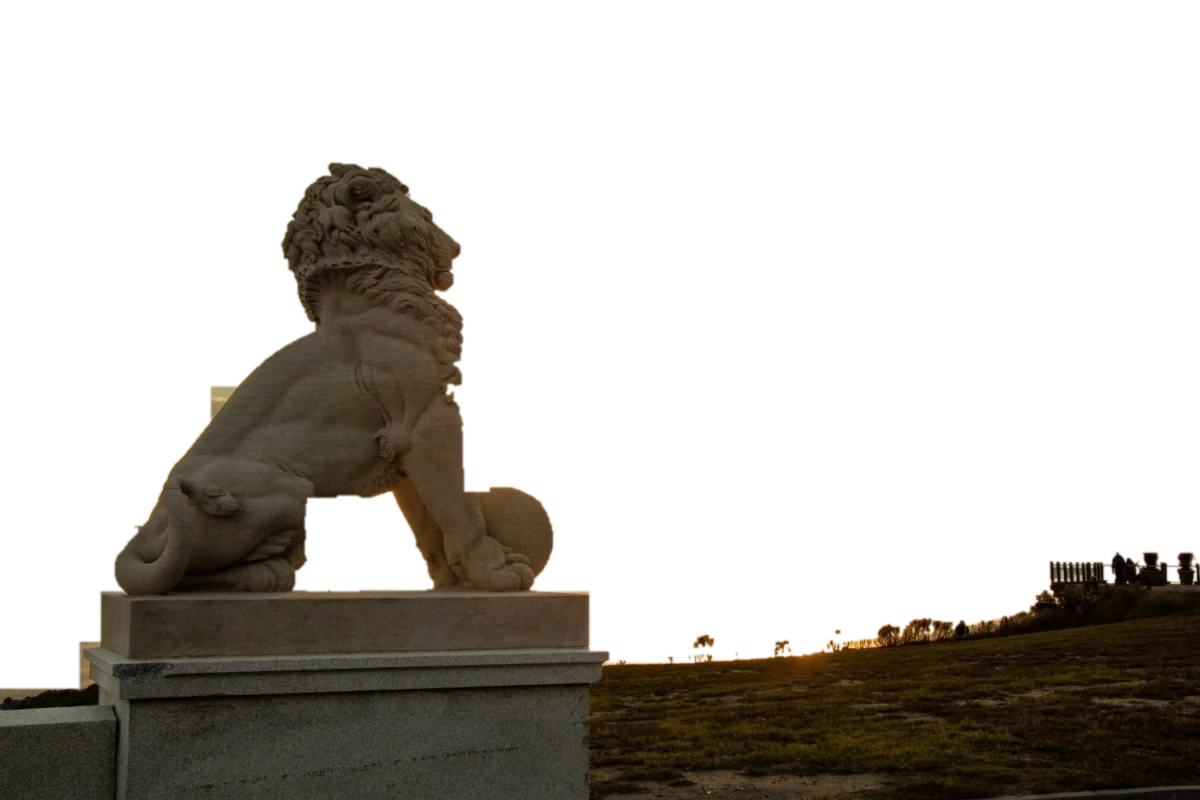
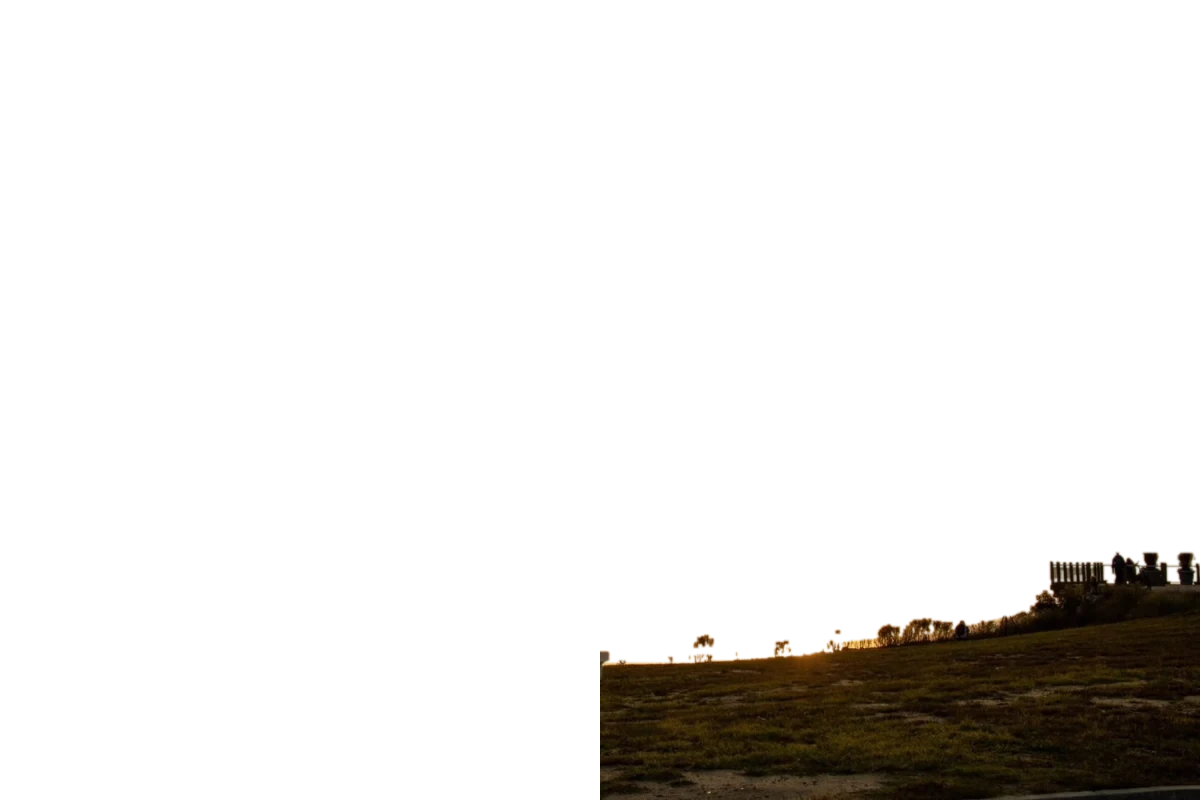
d24i: Lions Bridge lion smaller (80%) and left, clear of the setting sun

Changed region(s): [[0.0, 0.1875, 0.5242, 1.0]]

diff --git a/app.js b/app.js
@@ -648,9 +648,9 @@
       { const gy = window.AGObs && AGObs.sceneAt ? AGObs.sceneAt(sp, ev, t).gray : ev.obs ? ev.obs.gray : 0; const fl = o.mode !== "live" && gy > 0 ? `saturate(${(1 - 0.65 * gy).toFixed(2)}) brightness(${(1 + 0.08 * gy).toFixed(2)})` : ""; if (cv.style.filter !== fl) cv.style.filter = fl; }   // d15: illustrated fallback goes gray too (d22: muted, not drained, and brighter)
       const turnedIll = turned && o.mode === "behind";
       { const FG = { lionsbridge: { src: "img/lionsbridge-fg.webp" } }[sp.id], st = cv.parentElement; let el = st && st.querySelector(".pv-fg");   // d24h: Lions Bridge — the real foreground (lion statue, pedestal, wall, shore, railing) cut from Sean's photo; lit by the sun, silhouette only after dark
-        if (FG && !turned && !/mode=sunrise/.test(location.search) && st) { if (!el) { el = document.createElement("img"); el.className = "pv-fg"; el.alt = ""; st.appendChild(el); } if (el.getAttribute("src") !== FG.src) el.src = FG.src; el.hidden = false;
-          const e = o.elev != null ? o.elev : 0, lt = Math.max(0, Math.min(1, (e + 6) / 8)), f = `brightness(${(0.1 + 0.9 * lt).toFixed(2)}) saturate(${(0.35 + 0.65 * lt).toFixed(2)})`; if (el.style.filter !== f) el.style.filter = f; }
-        else if (el) el.hidden = true; }
+        if (FG && !turned && !/mode=sunrise/.test(location.search) && st) { if (!el) { el = document.createElement("img"); el.className = "pv-fg"; el.alt = ""; st.appendChild(el); } if (el.getAttribute("src") !== FG.src) el.src = FG.src; el.hidden = false; let el2 = st.querySelector(".pv-fg2"); if (!el2) { el2 = document.createElement("img"); el2.className = "pv-fg pv-fg2"; el2.alt = ""; el2.src = "img/lionsbridge-lion.webp"; st.appendChild(el2); } el2.hidden = false;   // d24i: lion on its own layer, smaller + left, clear of the setting sun
+          const e = o.elev != null ? o.elev : 0, lt = Math.max(0, Math.min(1, (e + 6) / 8)), f = `brightness(${(0.1 + 0.9 * lt).toFixed(2)}) saturate(${(0.35 + 0.65 * lt).toFixed(2)})`; if (el.style.filter !== f) { el.style.filter = f; el2.style.filter = f; } }
+        else if (el) { el.hidden = true; const e2 = st.querySelector(".pv-fg2"); if (e2) e2.hidden = true; } }
       if (o.mode === "live" && !/[?&]still=1/.test(location.search) && (window.PhotoStage && PhotoStage.last && PhotoStage.last.surf) && !dragging && !playing) startAnim();   // d14: keep the surf breaking at a steady 30 fps (was setTimeout 70 ms full re-render, ~12 fps, kept running behind the map)
       if (back) back.hidden = !turnedIll;
       { const d = $("#pv-dir"), az = turned ? (ev.sunsetAz + 180) % 360 : ev.sunsetAz; if (d) d.textContent = (turned ? "↻ Behind you · facing " : "Facing ") + compass(az) + " " + Math.round(az) + "°"; }

diff --git a/styles.css b/styles.css
@@ -776,3 +776,4 @@ html.ag-desk .stage .ev-toggle a{font-size:13px;padding:8px 14px}
 }
 
 .stage .pv-fg{position:absolute;inset:0;width:100%;height:100%;object-fit:cover;object-position:30% 100%;pointer-events:none;z-index:2;transition:filter .6s}
+.stage .pv-fg2{transform-origin:0 100%;transform:translateX(-7%) scale(.8)}
